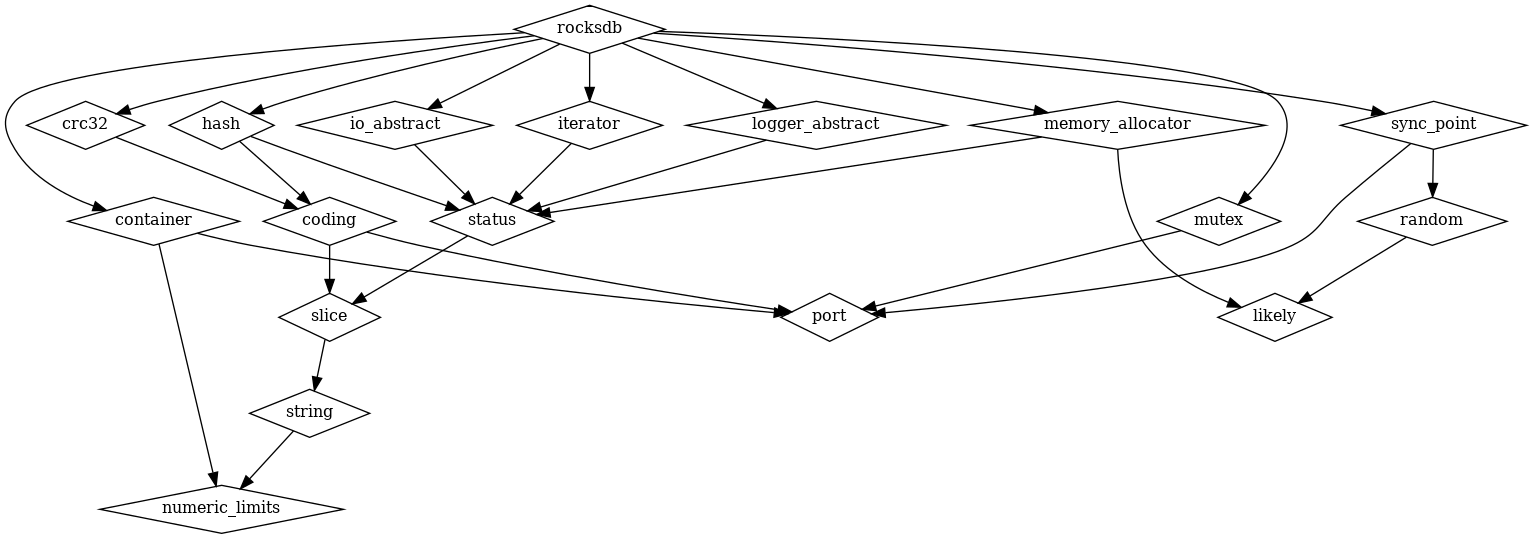
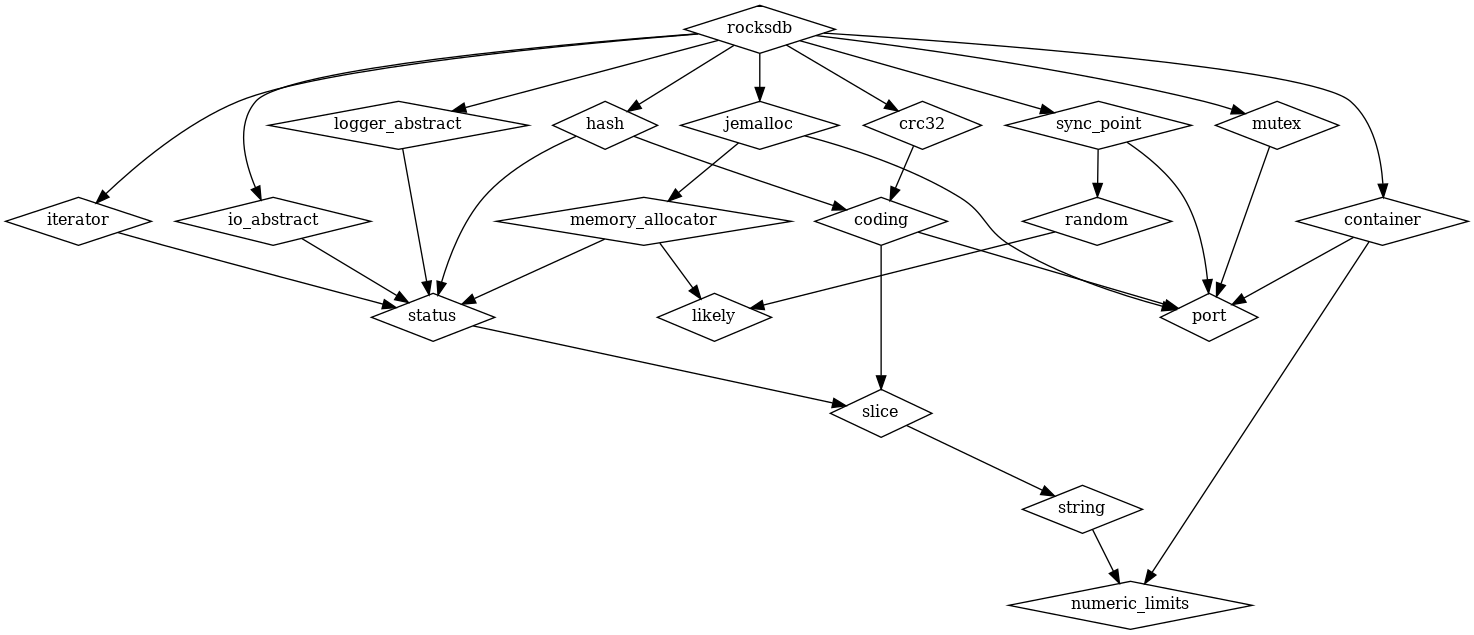
Create jemalloc library

diff --git a/libs/jemalloc/include/rock/jemalloc/jemalloc_nodump_allocator.h b/libs/jemalloc/include/rock/jemalloc/jemalloc_nodump_allocator.h
@@ -5,15 +5,16 @@
 
 #pragma once
 
+#if defined(ROCKSDB_JEMALLOC) && defined(ROCKSDB_PLATFORM_POSIX)
+
 #include <atomic>
 #include <vector>
 
-#include "port/jemalloc_helper.h"
+#include <rock/jemalloc/jemalloc_helper.h>
 #include <rock/port/port.h>
-#include "rocksdb/memory_allocator.h"
+#include <rock/memory_allocator/MemoryAllocator.h>
 #include "util/thread_local.h"
 
-#if defined(ROCKSDB_JEMALLOC) && defined(ROCKSDB_PLATFORM_POSIX)
 
 #include <sys/mman.h>
 

diff --git a/table/meta_blocks.h b/table/meta_blocks.h
@@ -12,7 +12,7 @@
 #include "db/builder.h"
 #include "db/table_properties_collector.h"
 #include <rock/slice/Comparator.h>
-#include "rocksdb/memory_allocator.h"
+#include <rock/memory_allocator/MemoryAllocator.h>
 #include "rocksdb/options.h"
 #include <rock/slice/Slice.h>
 #include "table/block_based/block_builder.h"

diff --git a/libs/jemalloc/src/jemalloc_nodump_allocator.cpp b/libs/jemalloc/src/jemalloc_nodump_allocator.cpp
@@ -3,7 +3,7 @@
 //  COPYING file in the root directory) and Apache 2.0 License
 //  (found in the LICENSE.Apache file in the root directory).
 
-#include "memory/jemalloc_nodump_allocator.h"
+#include <rock/jemalloc/jemalloc_nodump_allocator.h>
 
 #include <string>
 #include <thread>

diff --git a/include/rocksdb/cache.h b/include/rocksdb/cache.h
@@ -25,7 +25,7 @@
 #include <stdint.h>
 #include <memory>
 #include <string>
-#include "rocksdb/memory_allocator.h"
+#include <rock/memory_allocator/MemoryAllocator.h>
 #include <rock/slice/Slice.h>
 #include "rocksdb/statistics.h"
 #include <rock/status/Status.h>

diff --git a/db/malloc_stats.cc b/db/malloc_stats.cc
@@ -13,7 +13,7 @@
 #include <memory>
 #include <string.h>
 
-#include "port/jemalloc_helper.h"
+#include <rock/jemalloc/jemalloc_helper.h>
 
 
 namespace rocksdb {

diff --git a/libs/jemalloc/tests/main.cpp b/libs/jemalloc/tests/main.cpp
@@ -1,0 +1,9 @@
+#include <gtest/gtest.h>
+
+int main( int argc, char **argv ) 
+{
+    ::testing::InitGoogleTest(&argc, argv);
+    return RUN_ALL_TESTS();
+}
+
+

diff --git a/libs/jemalloc/src/NewJemallocNodumpAllocator.cpp b/libs/jemalloc/src/NewJemallocNodumpAllocator.cpp
@@ -1,4 +1,4 @@
-#include <rock/memory_allocator/NewJemallocNodumpAllocator.h>
+#include <rock/jemalloc/NewJemallocNodumpAllocator.h>
 
 
 namespace rocksdb {

diff --git a/libs/jemalloc/tests/base.cpp b/libs/jemalloc/tests/base.cpp
@@ -1,0 +1,13 @@
+#include <gtest/gtest.h>
+
+// #include <rock/jemalloc/jemalloc.h>
+
+
+//
+//
+TEST( jemalloc, constructor )
+{
+
+}
+
+

diff --git a/libs/jemalloc/src/JemallocAllocatorOptions.cpp b/libs/jemalloc/src/JemallocAllocatorOptions.cpp
@@ -1,0 +1,1 @@
+#include <rock/jemalloc/JemallocAllocatorOptions.h>

diff --git a/libs/jemalloc/src/jemalloc_helper.cpp b/libs/jemalloc/src/jemalloc_helper.cpp
@@ -1,0 +1,1 @@
+#include <rock/jemalloc/jemalloc_helper.h>
